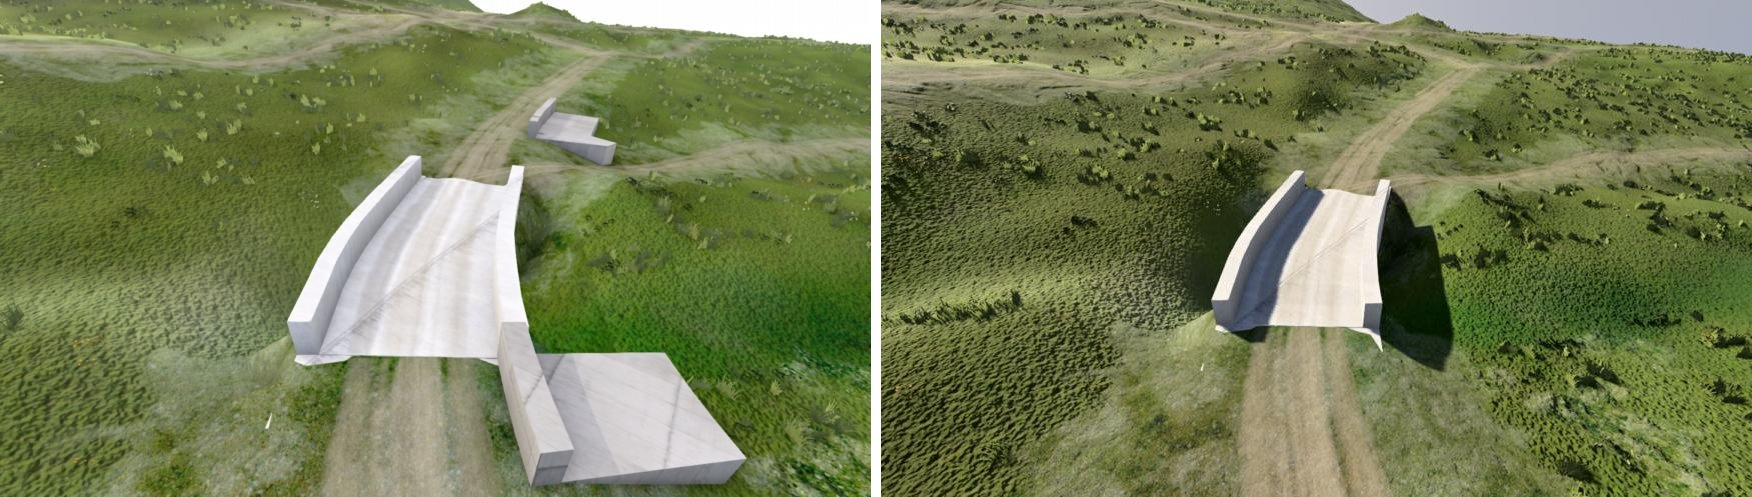
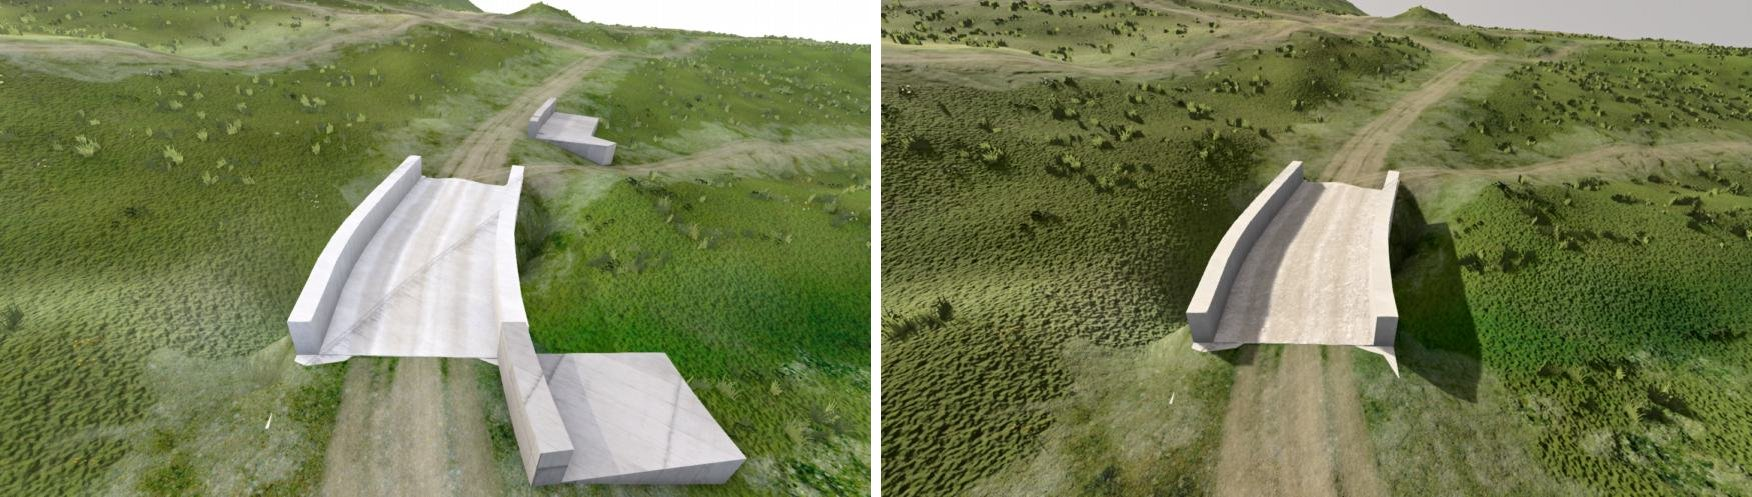
0.3.6 page: earth on a track's bridge; open items: the five easy wins

Changed region(s): [[0.4932, 0.0, 1.0, 1.0]]

diff --git a/public/updates/0.3.6/index.html b/public/updates/0.3.6/index.html
@@ -287,6 +287,7 @@
       <li><b>Funicular tunnels keep one steady slope.</b> The track was held under the ground station by station, so it copied the hillside over it in waves, and the dips were filled over the tube into a bulge. It is now the highest line under the ground that only ever steepens. (Thanks for the report.)</li>
       <li><b>Avalanche galleries no longer hump.</b> A fine survey can hold a gallery's roof. The roof is level across the lanes, as a road is, so the road was pulled up onto it: one 40 m gallery rose 4.3 m in the middle, 30 % at its ends. The road now runs straight through under the roof. (Thanks for the report.)</li>
       <li><b>No more concrete lumps at small bridges.</b> A block of wall stood wherever a road near a bridge was 0.8 m over the ground beside it, also on gentle banks and as stubs a metre long. Walls are now built only along a really steep side, 4 m or longer. (Thanks for the report.)</li>
+      <li><b>Earth on a track's bridge.</b> The deck of a bridge that carries a track or another unpaved road has a compacted-earth top. On bare concrete the track's soft dirt texture all but vanished.</li>
       <li><b>Desktop: Generate at 8192 on a 16 GB computer.</b> Its memory peak was 8.65 GB, while the three map textures were encoded together. They are now encoded one at a time: 7.0 GB at the same speed.</li>
       <li><b>"Generate does nothing" with your own elevation file.</b> With an uploaded elevation file the app always offered Generate, then decided nothing had changed. A map data file loaded after generating was ignored the same way. Both now generate again. (Thanks for the report.)</li>
       <li><b>"Settings changed since generating"</b> now follows everything that changes the map, tiles and a picked road included.</li>
@@ -305,7 +306,7 @@
     <figure><img src="images/funicular-slope.jpg" alt="A long section of a 3.4 km funicular tunnel under a mountain. The red line, before, follows the ground's waves for the first 650 m and steps under a hollow; the blue line, after, is straight at 18 % and then at 28 %." loading="lazy"><figcaption>A funicular tunnel in the Alps: the track before (red) and now (blue), under the surveyed ground.</figcaption></figure>
     <figure><img src="images/gallery-road.jpg" alt="Sections through an avalanche gallery, before and after. Before, the road and the roof arch 4 m upward through the gallery. After, the road is a straight gentle climb and the roof sits where the survey shows the real one." loading="lazy"><figcaption>An avalanche gallery along and across its road: before (left) the road climbed onto the surveyed roof; now (right) it runs under it.</figcaption></figure>
     <figure><img src="images/gallery-in-game.jpg" alt="The same avalanche gallery in the game, seen from the valley side: a level concrete roof on six columns over a road that runs straight through, the hillside behind it." loading="lazy"><figcaption>The same gallery in game now: a level roof, the road straight through.</figcaption></figure>
-    <figure><img src="images/wing-walls.jpg" alt="A small track bridge in the game, twice. Left: a square concrete slab beside the deck's end and a second block further along the track. Right: the same bridge with plain grassy banks." loading="lazy"><figcaption>A 10 m track bridge in game: before (left) and now (right).</figcaption></figure>
+    <figure><img src="images/wing-walls.jpg" alt="A small track bridge in the game, twice. Left: a white concrete deck, a square concrete slab beside its end and a second block further along the track. Right: the same bridge with an earth-coloured deck and plain grassy banks." loading="lazy"><figcaption>A 10 m track bridge in game: before (left) and now (right), without the concrete lumps and with earth on the deck.</figcaption></figure>
   </section>
 
   <section id="next" data-nav="Next release">

diff --git a/docs/open-items.md b/docs/open-items.md
@@ -381,7 +381,18 @@ As of 2026-11-23:
     - Width: on this bridge the deck (3.6 m road + 0.45 m each side for the parapets) and the track drawn on it
       (3.96 m) agree, and every bridge way in five Tignes areas has the class of the roads at its ends. His
       picture shows a track about twice the deck's width: needs the place (which bridge) from him.
-    - Seen on the way: a track's deck is bare concrete (no dirt on it).
+    - A track's deck was bare concrete (its dirt decal is soft and half transparent). Done on dev 2026-11-24
+      (15435de): a deck whose roads are all tracks or unpaved gets a compacted-earth top (`mapng_bridge_dirt`, the
+      game's own gridmap dirt texture, ground type DIRT). Seen in game: `scratch/fizz035/tb_dirt_deck.jpg`.
+  - **The five easy wins (user, 2026-11-24: do them, sidewalk drift last).** (1) earth on track bridge decks: done.
+    (2) sweep areas on the corrected frame: the 15 smoke areas re-framed from their saved rasters
+    (`REFRAME=1 fetchArea.mjs --catalog`, `scratch/levelprobe/reframe.sh`; the old heightmaps kept in
+    `scratch/levelprobe/oldframe/`), Mapterhorn fetched again; the matrix on them is running, baselines not yet
+    re-recorded; the other 38 catalogue areas not re-framed. (3) batch code removal: not started, bigger than it
+    looked (about 5,000 lines wired into App.vue, the map and the store; it would also end "an unfinished saved
+    job opens once more", which the 0.3.6 page promises: the user's call). (4) fixes seen in game: the gallery
+    yes, the funicular not yet. (5) the page's in-game pictures: the gallery and the track bridge added; a tiled
+    level, a road level and the thumbnail in the level list still missing.
   - **Gallery fix seen in game 2026-11-24** (`fz_pigettes` as a 512 level, removed after): from the valley side a
     level roof on its columns, the road straight through; from the driver's seat the road runs in with no rise
     (`scratch/fizz035/pig_game_outside.jpg`, `pig_game_driver.jpg`). The funicular: not seen in game yet.
